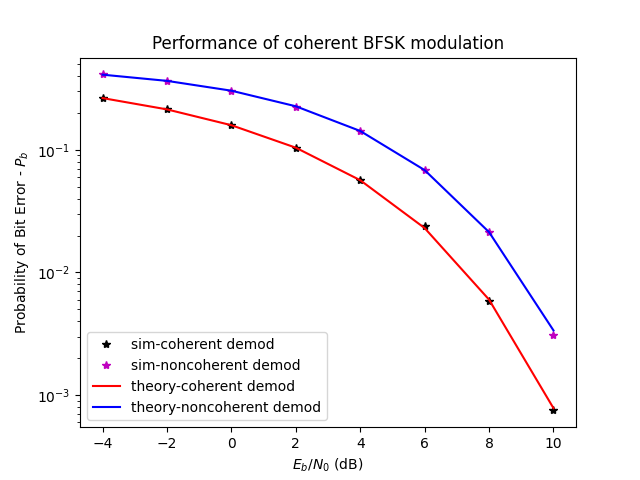
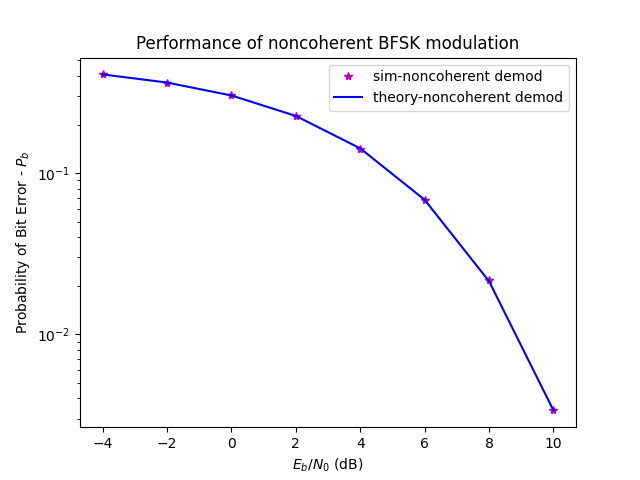
saving

diff --git a/ch2_demo_scripts.py b/ch2_demo_scripts.py
@@ -680,7 +680,7 @@ def bfsk():
     N = 100000 # Number of bits to transmit
     EbN0dB = np.arange(-4,11,2) # Eb/N0 range in dB for simulation
     fc = 400 # Carrier frequency f_c- integral multiple of 1/Tb
-    fsk_type = 'coherent' # Coherent/noncoherent FSK generation at Tx
+    fsk_type = 'noncoherent' # Coherent/noncoherent FSK generation at Tx
     h = 1 # Modulation index
     # h should be minimum .5 for coherent FSK or multiples of .5
     # h should be minimum 1 for non-coherent FSK or multiples of 1

diff --git a/passband_modulations.py b/passband_modulations.py
@@ -762,7 +762,10 @@ def bfsk_mod(a,fc,fd,L,fs,fsk_type='coherent', enable_plot=False):
         plt.xlim(0,.01)
         plt.savefig('Ch2_images/bfsk_mod_im2')
 
-    return (s_t,phase)
+    if fsk_type == 'noncoherent':
+        return (s_t,"NA")
+    else:
+        return (s_t,phase)
 
 
 # Coherent demodulator for coherent BFSK
